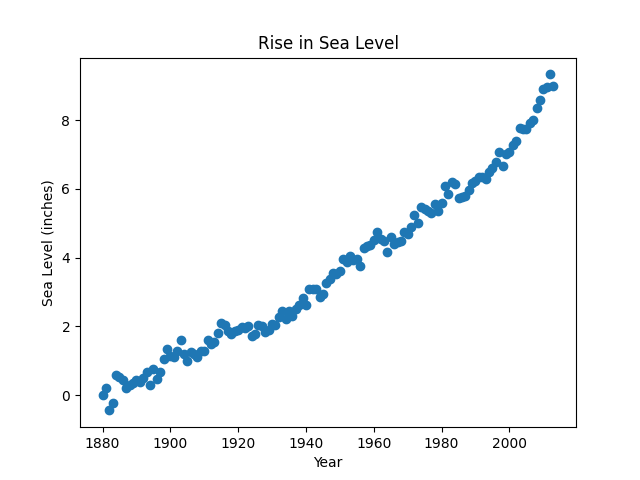
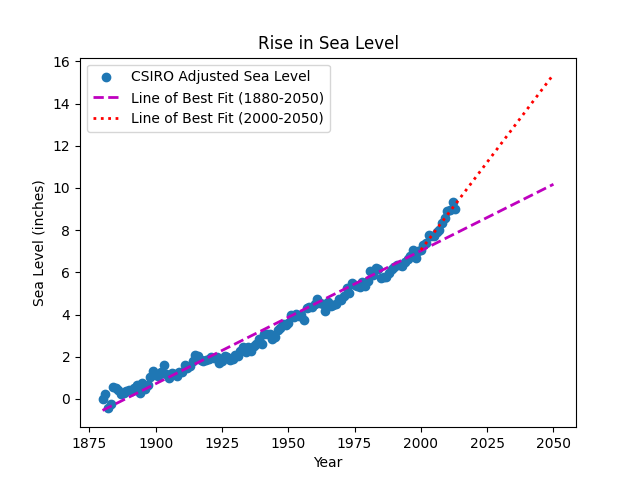
lines of best fit

diff --git a/sea-level-predictor/main.py b/sea-level-predictor/main.py
@@ -9,10 +9,31 @@ def draw_plot():
 
     # Create scatter plot
     plt.scatter('Year', 'CSIRO Adjusted Sea Level', data=df)
+    # plt.xlim(right=2050)
 
     # Create first line of best fit
+    result = linregress(df['Year'], df['CSIRO Adjusted Sea Level'])
+    intercept = result.intercept
+    slope = result.slope
+
+    xs = [df['Year'][0], 2050]
+    ys = [intercept + slope * x for x in xs]
+    plt.plot(xs, ys, '--m', linewidth=2,
+             label=f'Line of Best Fit ({xs[0]}-{xs[1]})')
 
     # Create second line of best fit
+    xs1 = [2000, 2050]
+    index = df[df['Year'] == xs1[0]].index[0]
+    result1 = linregress(df['Year'].iloc[index:],
+                         df['CSIRO Adjusted Sea Level'].iloc[index:])
+    intercept1 = result1.intercept
+    slope1 = result1.slope
+
+    ys1 = [intercept1 + slope1 * x1 for x1 in xs1]
+    plt.plot(xs1, ys1, ':r', linewidth=2,
+             label=f'Line of Best Fit ({xs1[0]}-{xs1[1]})')
+
+    plt.legend()
 
     # Add labels and title
     plt.xlabel('Year')

diff --git a/sea-level-predictor/README.md b/sea-level-predictor/README.md
@@ -14,9 +14,9 @@ You will anaylize a dataset of the global average sea level change since 1880. Y
 
 ## Solution
 
-- Use Pandas to import the data from `epa-sea-level.csv`.
+- [x] Use Pandas to import the data from `epa-sea-level.csv`.
 
-- Use matplotlib to create a scatter plot using the "Year" column as the x-axis and the "CSIRO Adjusted Sea Level" column as the y-axix.
+- [x] Use matplotlib to create a scatter plot using the "Year" column as the x-axis and the "CSIRO Adjusted Sea Level" column as the y-axix.
 
 - Use the `linregress` function from `scipy.stats` to get the slope and y-intercept of the line of best fit. Plot the line of best fit over the top of the scatter plot. Make the line go through the year 2050 to predict the sea level rise in 2050.
 
